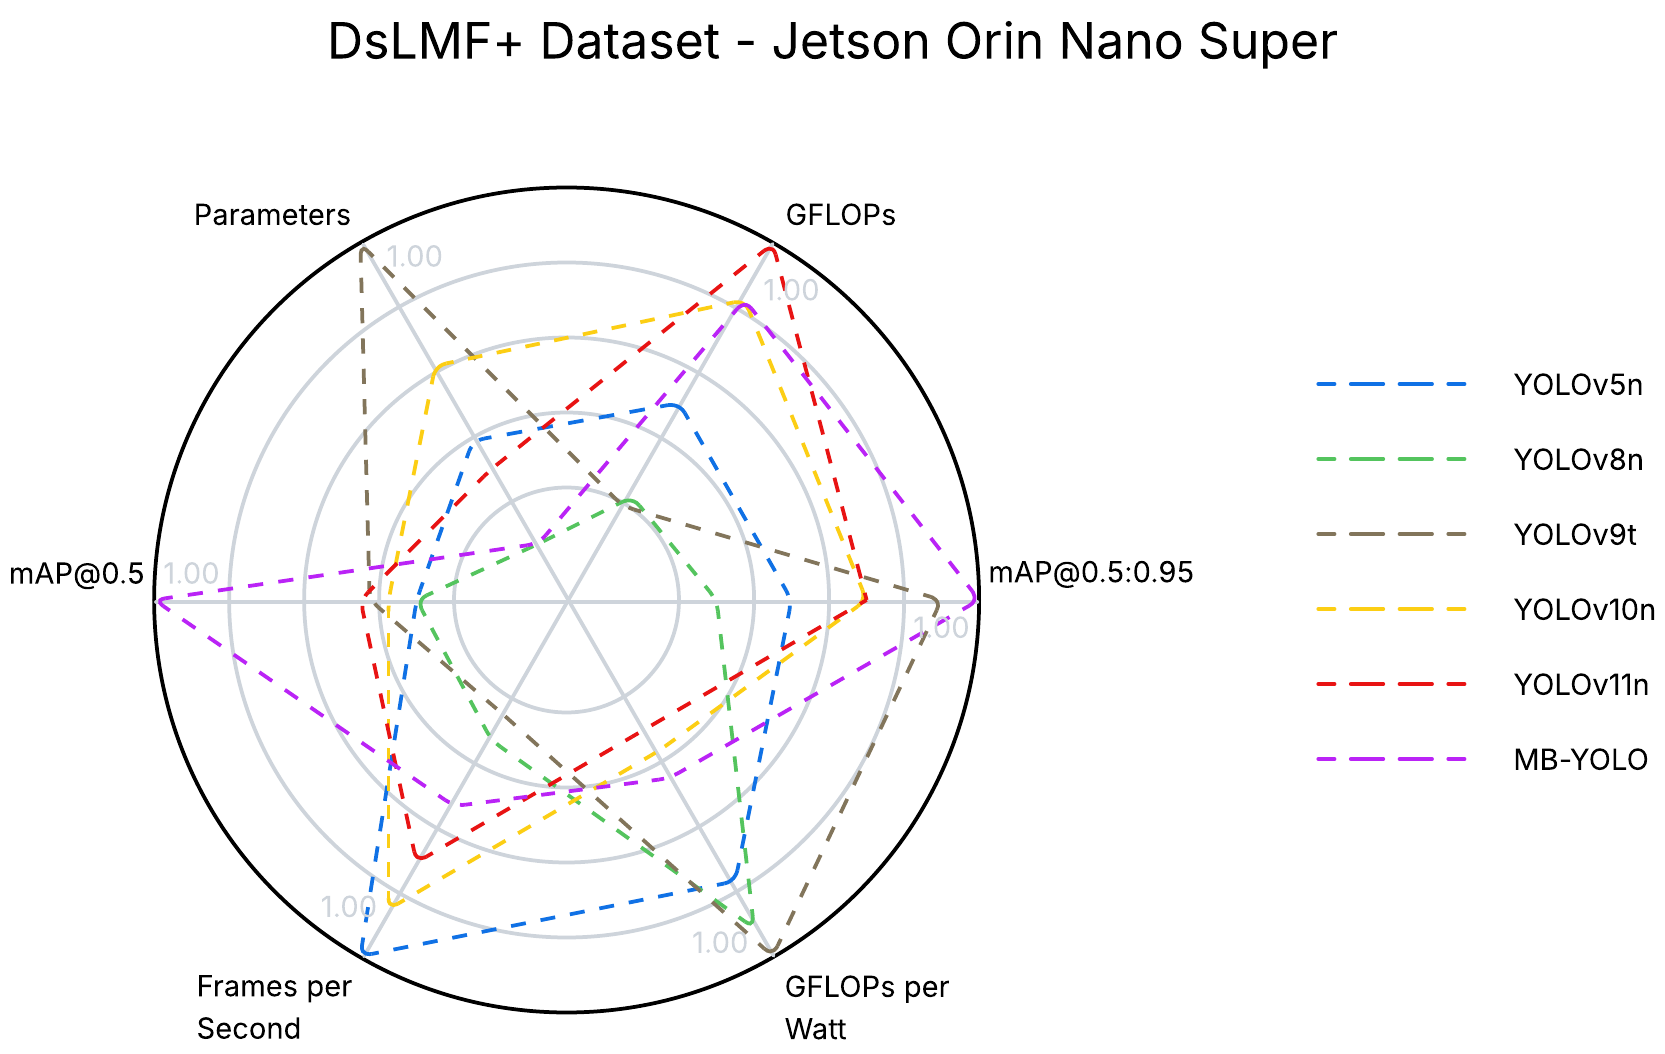
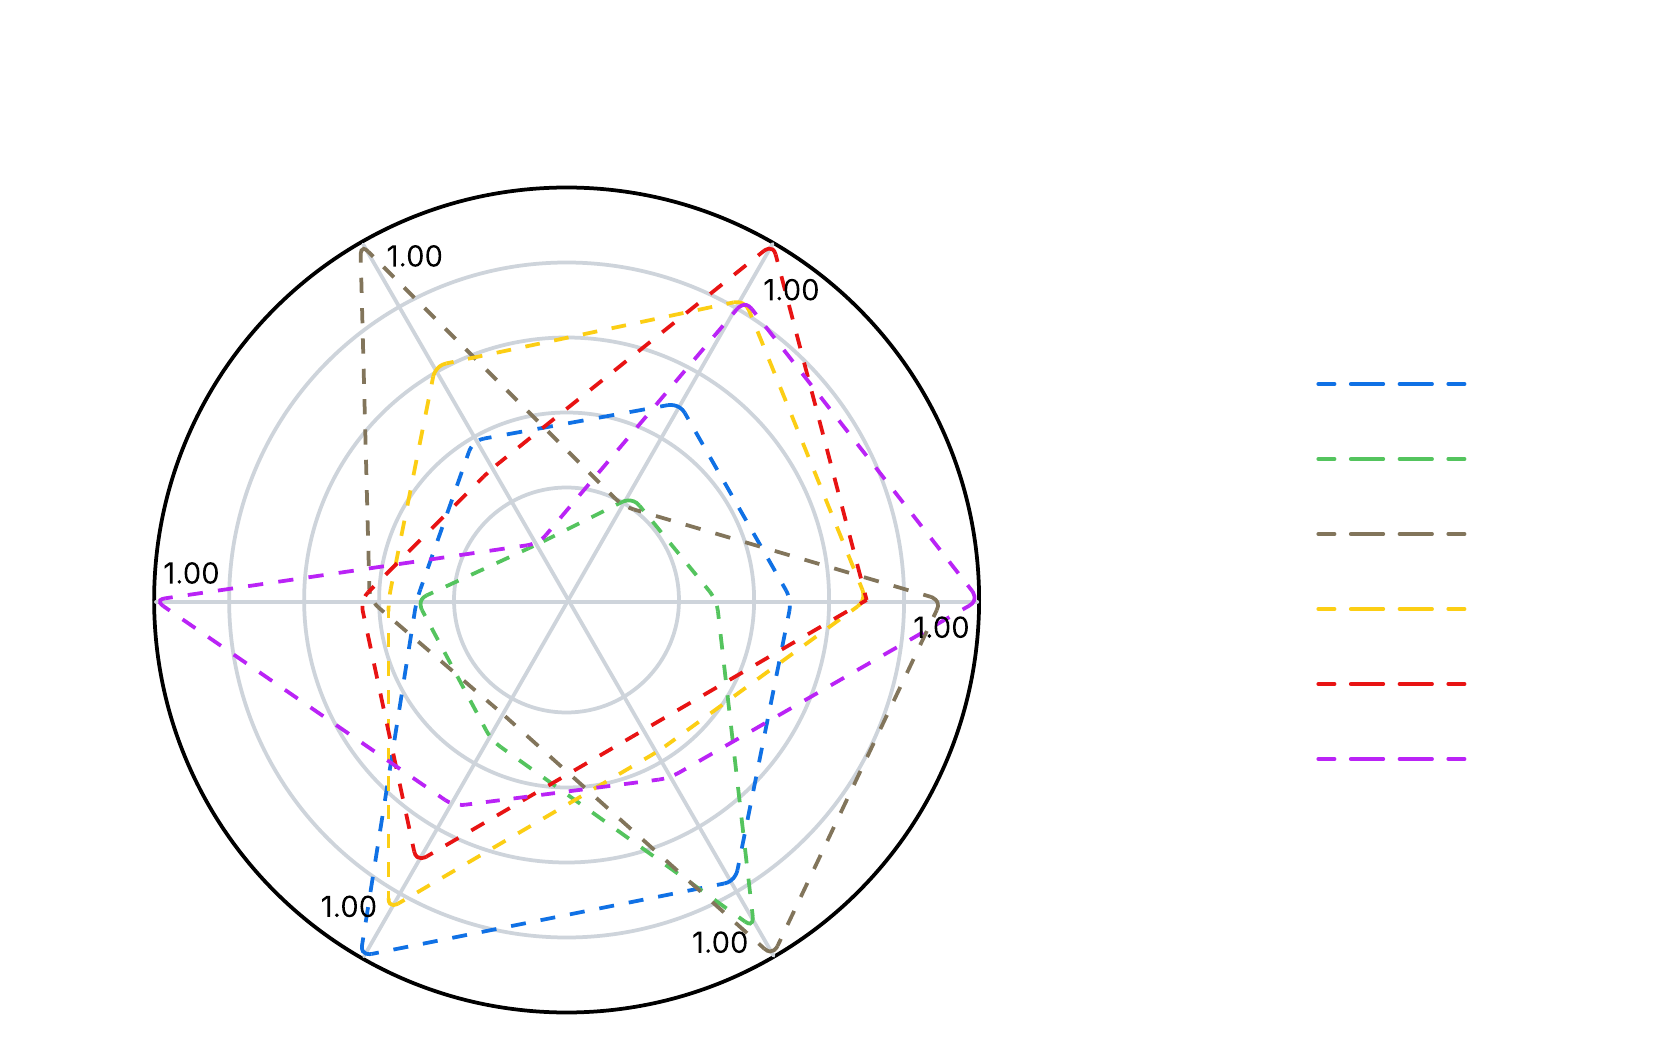
Update of Dockerfile, addition of model evaluation instructions to readmefile, update performance image with a white font for letters

diff --git a/readme.md b/readme.md
@@ -183,11 +183,14 @@ Raspberry Pi (Docker Recommeded)
 
 ## Model Training
 
+```bash
+python <train.py> <modelName> </path/to/save/exported/model>  --format <format> --half
+```
 
 ## Model Export
 
 ```bash
-python <export.py> <modelName> </path/to/save/exported/model>  --format <format> --half
+python <export.py> <modelName> </directory/to/save/exported/model>  --format <format> --half
 ```
 
 * Windows
@@ -208,22 +211,22 @@ python export.py v5n_Base models/exported/Raspi --format onnx --half
 ## Model Evaluation
 
 ```bash
-python <evaluate.py> <modelName> </path/to/save/exported/model>  --format <format> --half
+python <evaluate.py> <modelName> </directory/where/exported/model/is/located> --yamlName <yamlFileName> --dataPath </directory/of/image/and/labels>  --format <format> --repet <repetitions> --half --power --serPort <serialPortName>
 ```
 
 Windows
 ```bash
-python evalModel.py v5n_Base .\models\exported\RTX3060\ --format engine
+python evalModel.py v5n_Base .\models\exported\RTX3060\ --format engine--repet 5
 ```
 
 Jetson Orin Nano Super
 ```bash
-python evalModel.py v5n_Base models/exported/OrinNanoSup/ --format engine --data datasets/DsLMF_minerBehaviorDataset/images/val/
+python evaluate.py v5n_Base models/exported/OrinNanoSup/ --format engine --repet 5 --half --power --serPort /dev/ttyTHS1
 ```
 
 Raspberry Pi5
 ```bash
-python evalModel.py v5n_Base models/exported/Raspi4/ --format onnx --data datasets/DsLMF_minerBehaviorDataset/images/val/
+python evaluate.py v5n_Base models/exported/OrinNanoSup/ --format engine --repet 5 --half --power --serPort /dev/ttyTHS1
 ```
 
 
@@ -242,6 +245,5 @@ COPY ultralytics/.config/settings.json /root/.config/Ultralytics
 export ORINNANO = ultralytics/ultralytics:latest-jetson-jetpack6
 export ORINNANO = ultralytics/ultralytics:latest-arm64
 
-- Actualizar gitignore para que se ignore la carpeta datasets
 
 - Hacer pruebas para que cada uno de los scripts (train, export y eval) funcionen correctamente en las tres plataformas.
